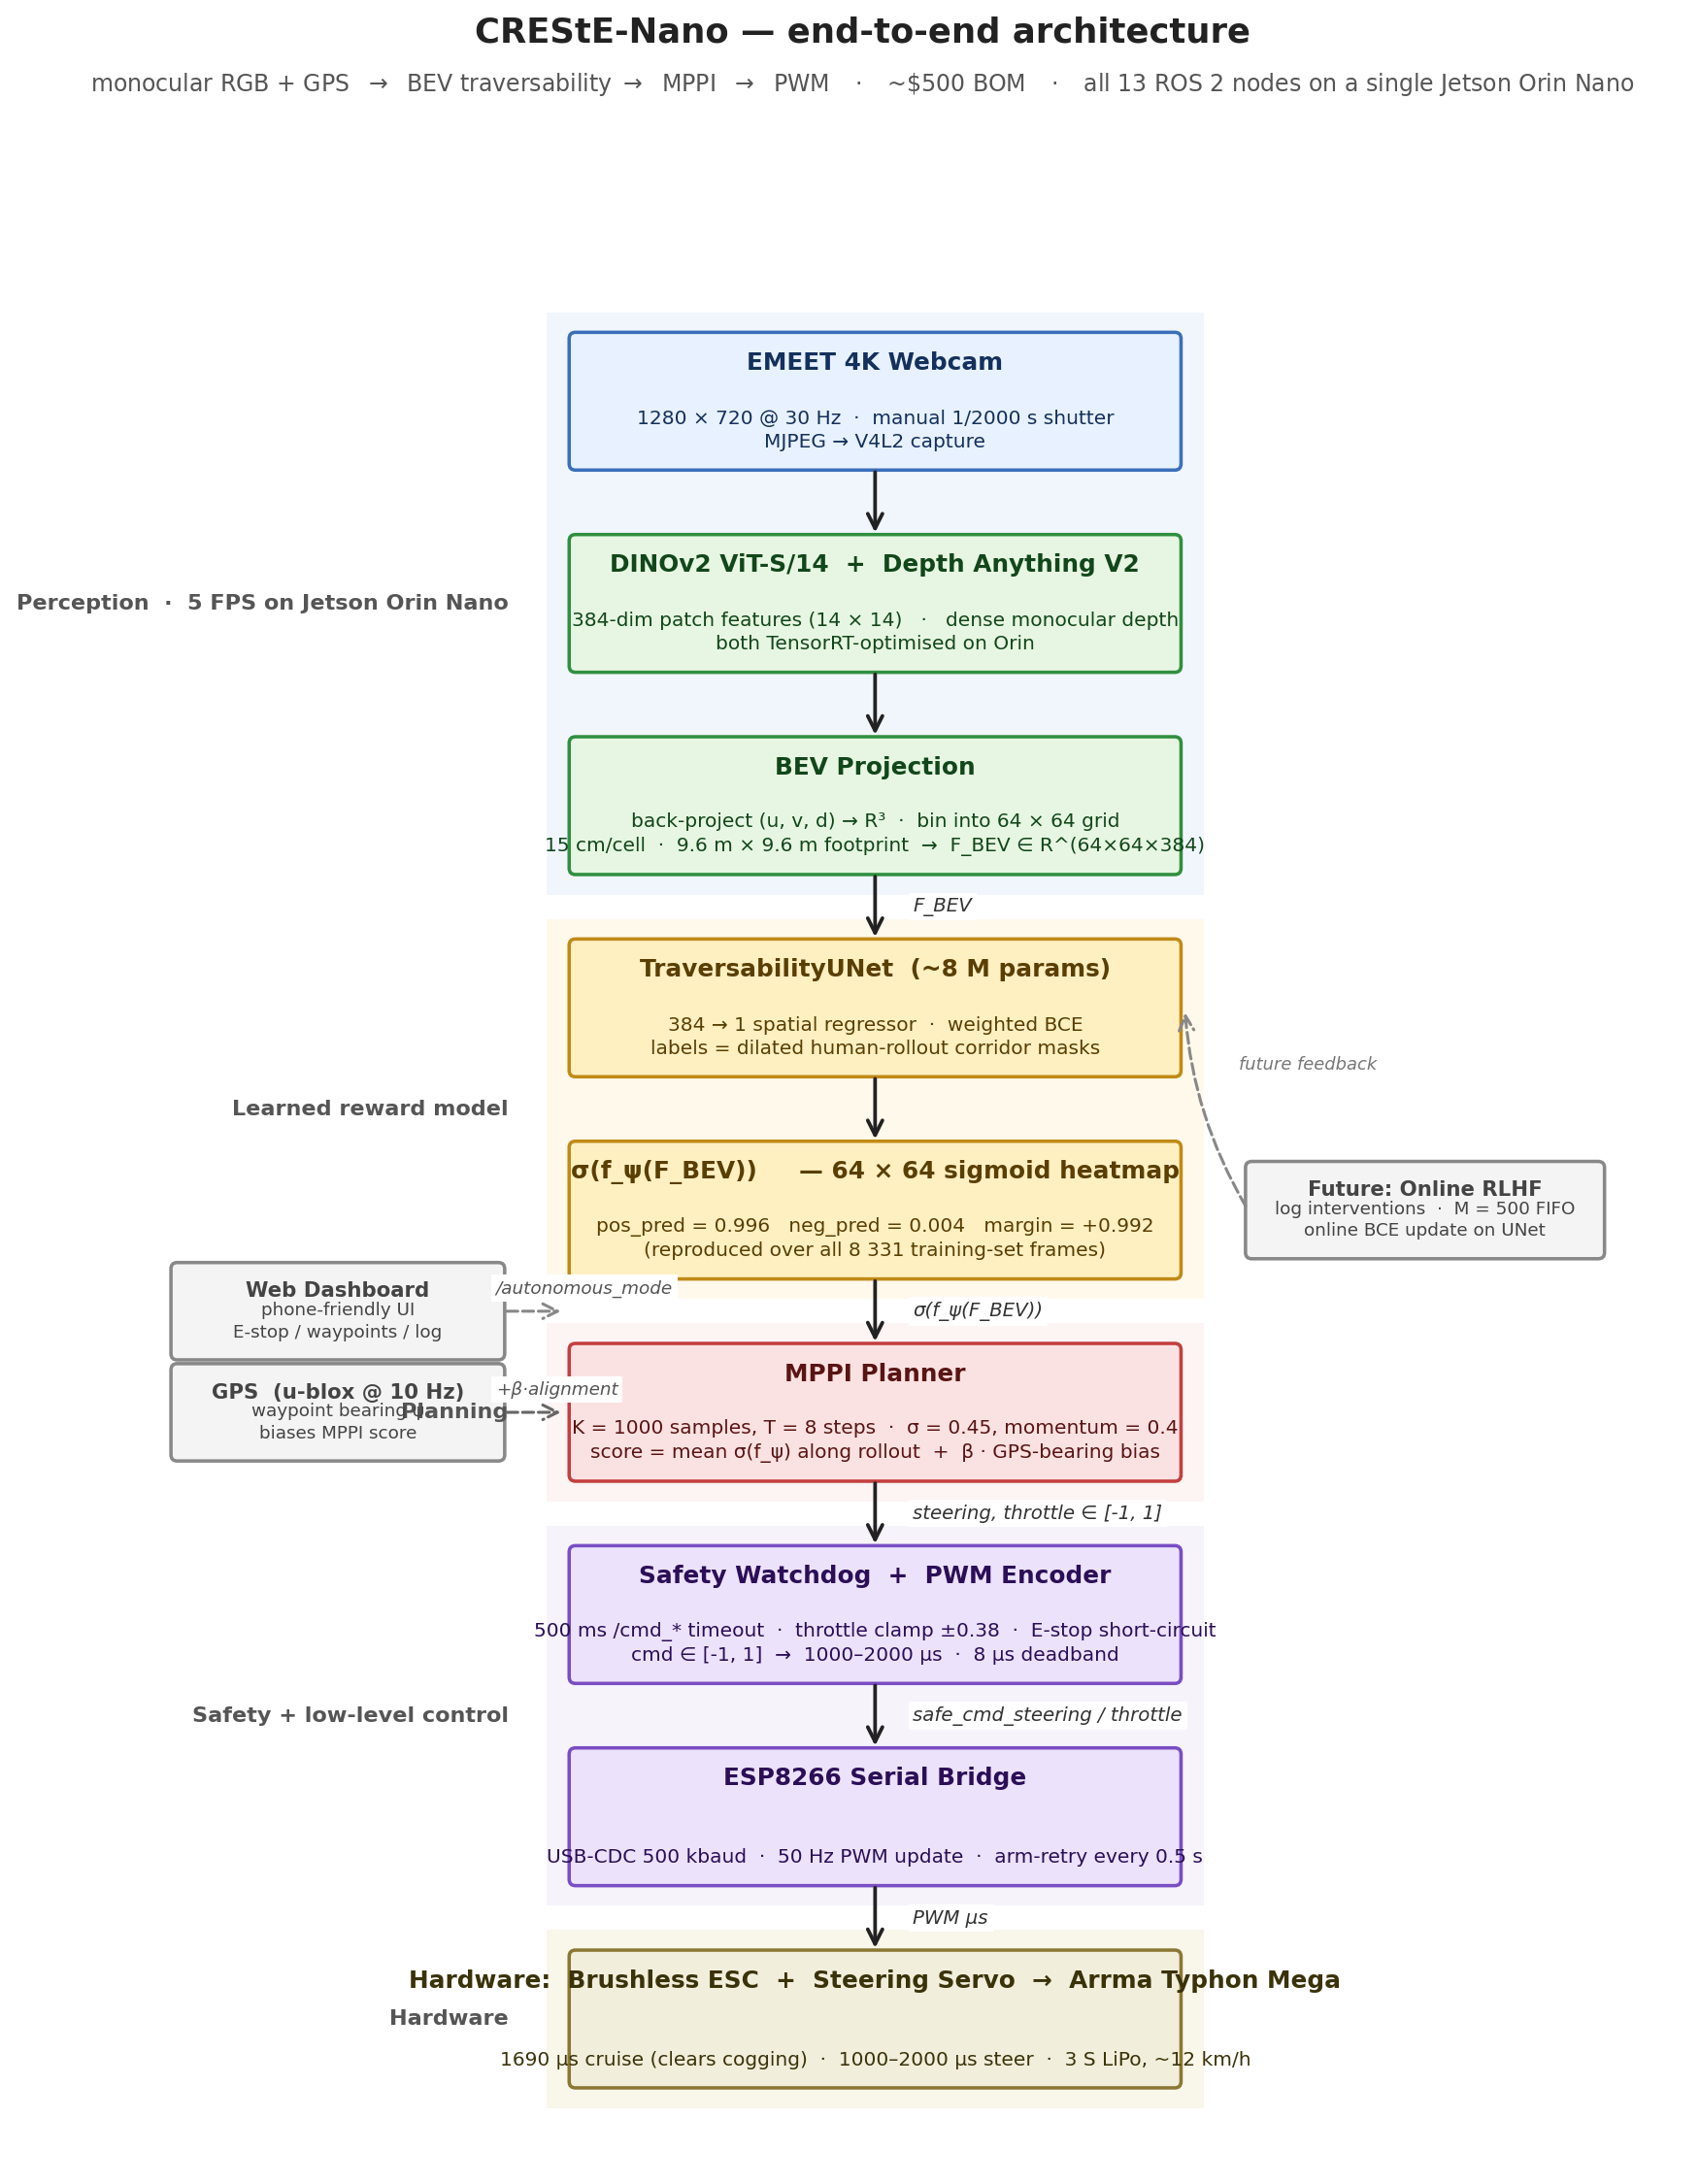
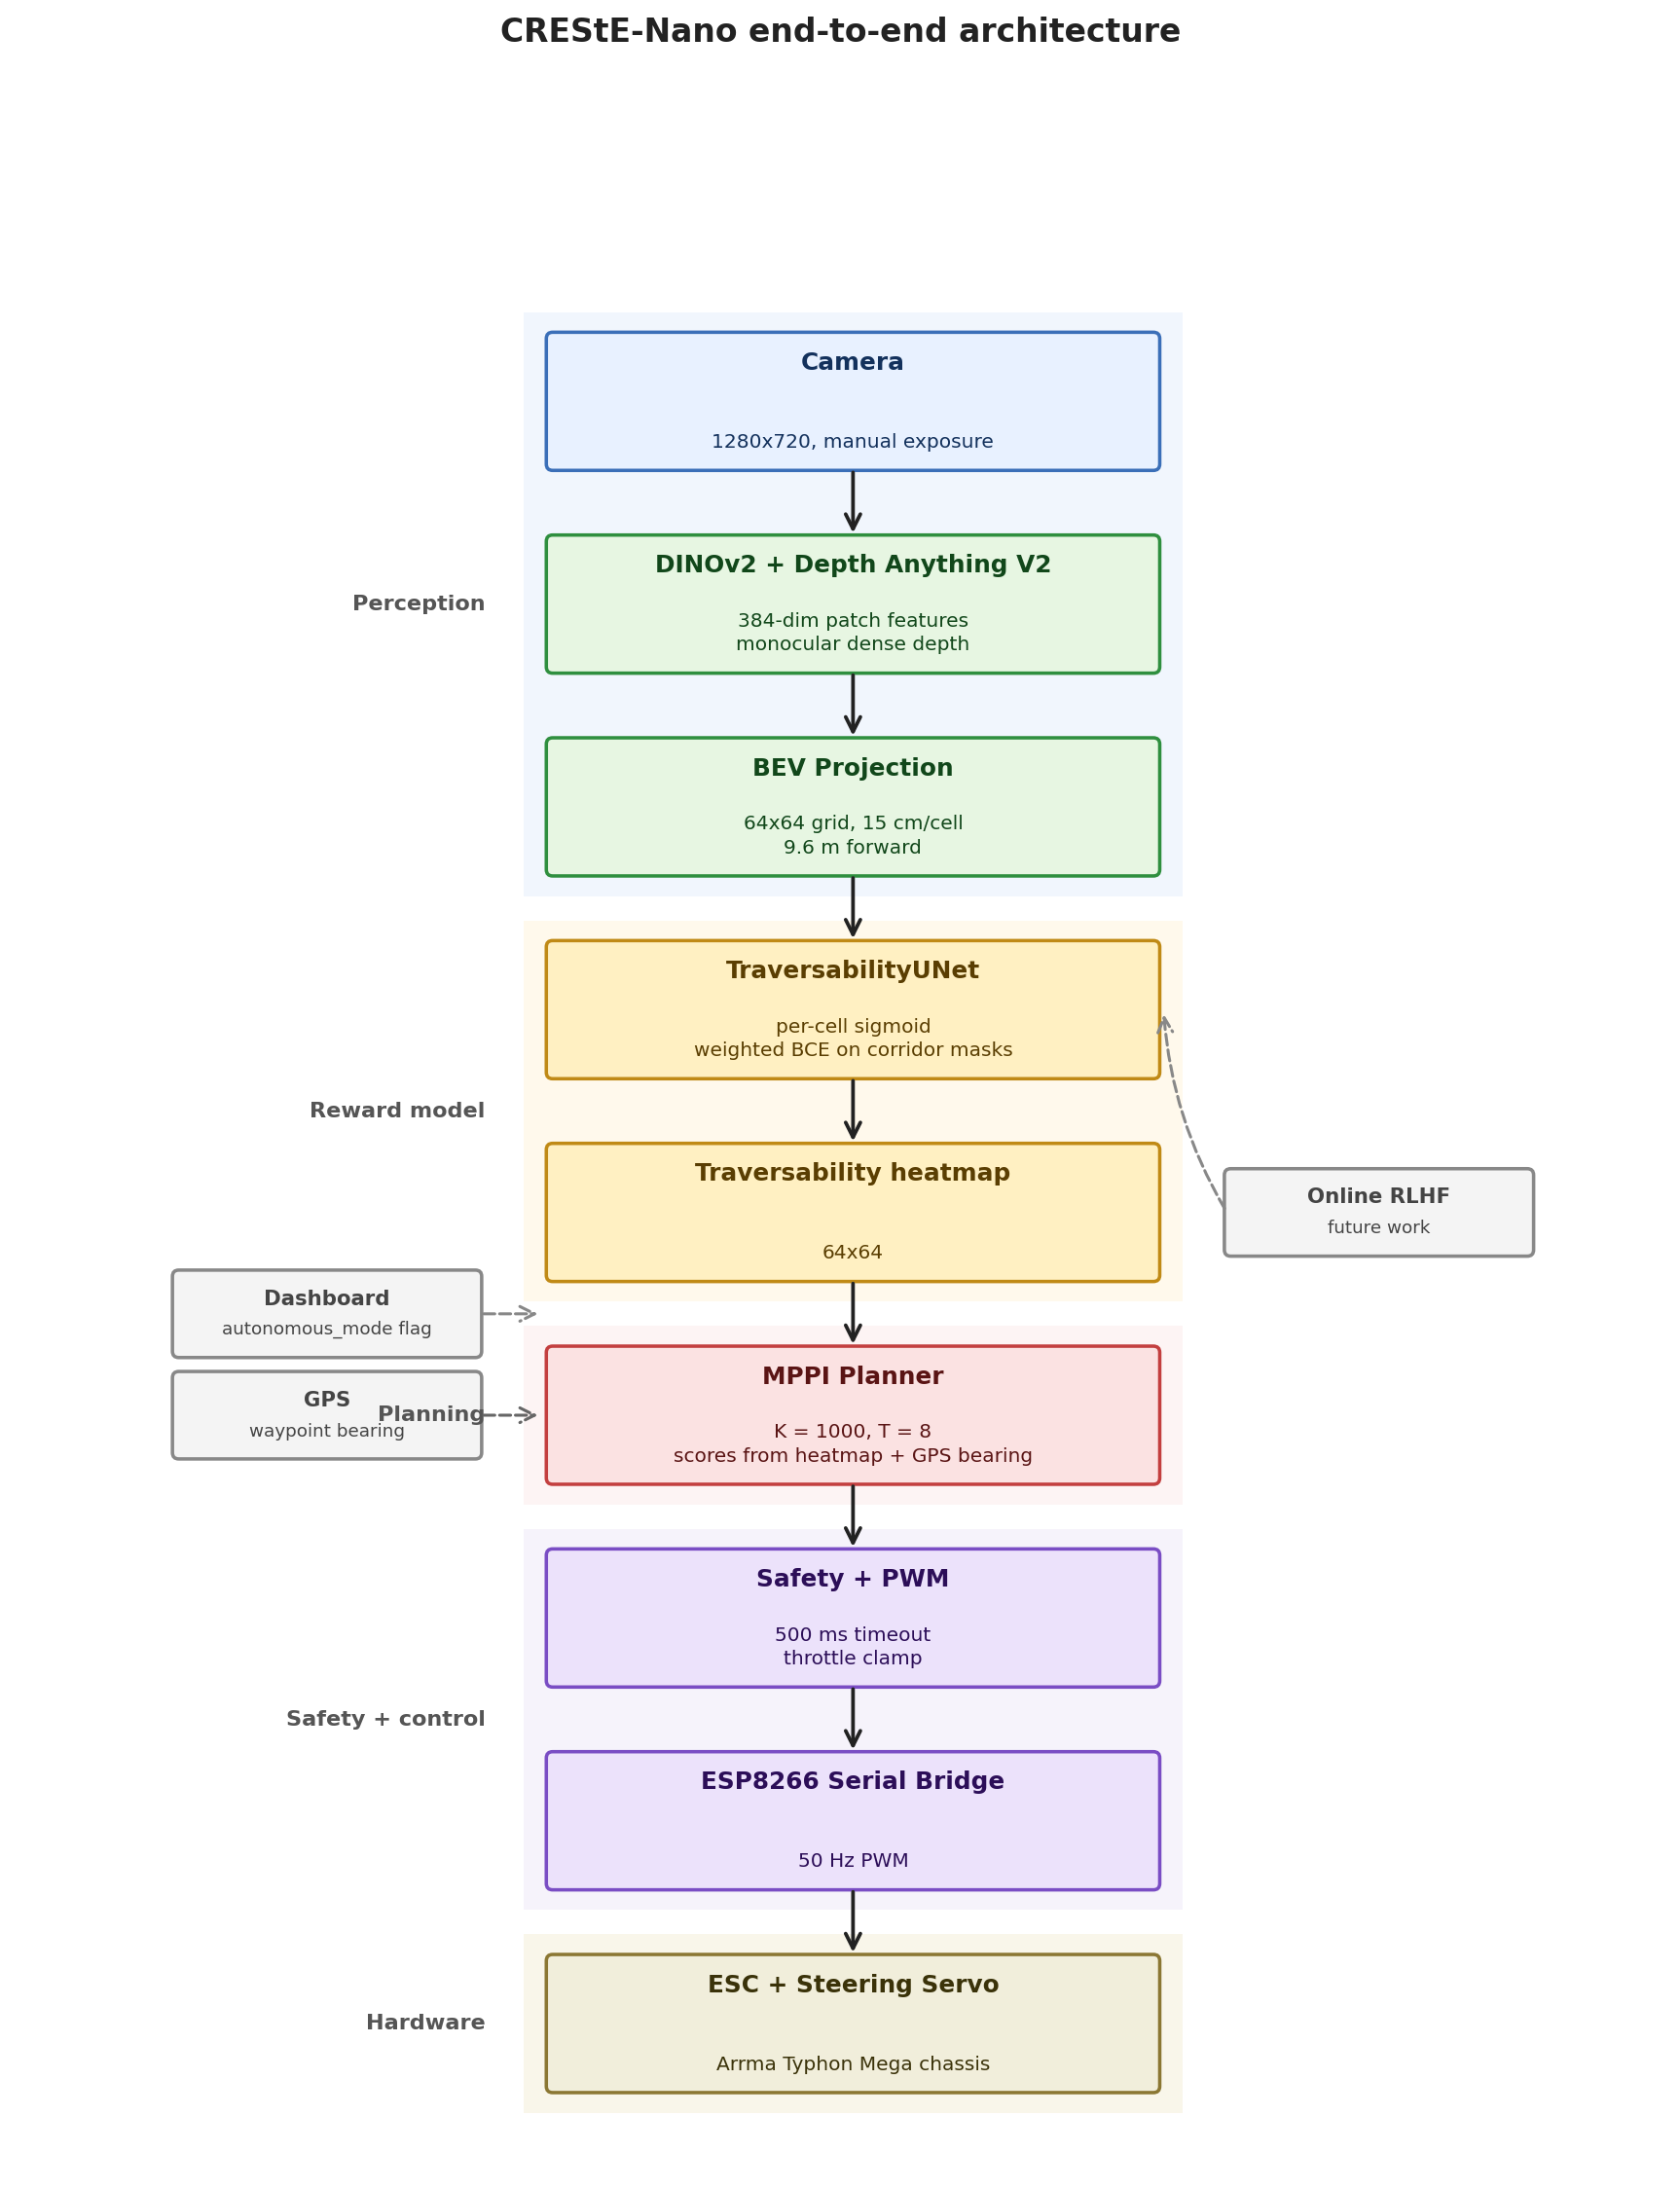
chore: drop emoji from README + simplify architecture diagram
- README: removed the camera emoji from the Demo heading and the inline play-button glyph

- Architecture diagram: cut the dense subtitles (no more middle-dot feature dumps in every block), dropped the inline arrow labels, and trimmed the subtitle banner under the title. Blocks now have short labels with at most a one-line description.

- Rebuilt paper/main.pdf so the figure inside the LaTeX writeup also picks up the simpler diagram.

diff --git a/make_arch_diagram.py b/make_arch_diagram.py
@@ -81,30 +81,24 @@ def build_figure():
     # Lane bands are visual grouping only. Compute block y-positions first.
     blocks = [
         # (kind, title, subtitle)
-        ('sensor',     'EMEET 4K Webcam',
-         '1280 × 720 @ 30 Hz  ·  manual 1/2000 s shutter\nMJPEG → V4L2 capture'),
-        ('perception', 'DINOv2 ViT-S/14  +  Depth Anything V2',
-         '384-dim patch features (14 × 14)   ·   dense monocular depth\n'
-         'both TensorRT-optimised on Orin'),
+        ('sensor',     'Camera',
+         '1280x720, manual exposure'),
+        ('perception', 'DINOv2 + Depth Anything V2',
+         '384-dim patch features\nmonocular dense depth'),
         ('perception', 'BEV Projection',
-         'back-project (u, v, d) → R³  ·  bin into 64 × 64 grid\n'
-         '15 cm/cell  ·  9.6 m × 9.6 m footprint  →  F_BEV ∈ R^(64×64×384)'),
-        ('learning',   'TraversabilityUNet  (~8 M params)',
-         '384 → 1 spatial regressor  ·  weighted BCE\n'
-         'labels = dilated human-rollout corridor masks'),
-        ('learning',   'σ(f_ψ(F_BEV))     — 64 × 64 sigmoid heatmap',
-         'pos_pred = 0.996   neg_pred = 0.004   margin = +0.992\n'
-         '(reproduced over all 8 331 training-set frames)'),
+         '64x64 grid, 15 cm/cell\n9.6 m forward'),
+        ('learning',   'TraversabilityUNet',
+         'per-cell sigmoid\nweighted BCE on corridor masks'),
+        ('learning',   'Traversability heatmap',
+         '64x64'),
         ('planning',   'MPPI Planner',
-         'K = 1000 samples, T = 8 steps  ·  σ = 0.45, momentum = 0.4\n'
-         'score = mean σ(f_ψ) along rollout  +  β · GPS-bearing bias'),
-        ('control',    'Safety Watchdog  +  PWM Encoder',
-         '500 ms /cmd_* timeout  ·  throttle clamp ±0.38  ·  E-stop short-circuit\n'
-         'cmd ∈ [-1, 1]  →  1000–2000 µs  ·  8 µs deadband'),
+         'K = 1000, T = 8\nscores from heatmap + GPS bearing'),
+        ('control',    'Safety + PWM',
+         '500 ms timeout\nthrottle clamp'),
         ('control',    'ESP8266 Serial Bridge',
-         'USB-CDC 500 kbaud  ·  50 Hz PWM update  ·  arm-retry every 0.5 s'),
-        ('actuation',  'Hardware:  Brushless ESC  +  Steering Servo  →  Arrma Typhon Mega',
-         '1690 µs cruise (clears cogging)  ·  1000–2000 µs steer  ·  3 S LiPo, ~12 km/h'),
+         '50 Hz PWM'),
+        ('actuation',  'ESC + Steering Servo',
+         'Arrma Typhon Mega chassis'),
     ]
 
     # Place top-to-bottom, compute y for each
@@ -118,11 +112,11 @@ def build_figure():
     # Lane bands (group blocks by colour)
     # Indices into the blocks list:
     lane_specs = [
-        (range(0, 3), 'Perception  ·  5 FPS on Jetson Orin Nano',         '#b9d2f7'),
-        (range(3, 5), 'Learned reward model',                             '#ffe3a3'),
-        (range(5, 6), 'Planning',                                         '#f7c9c9'),
-        (range(6, 8), 'Safety + low-level control',                       '#d4c4ee'),
-        (range(8, 9), 'Hardware',                                         '#e2d39a'),
+        (range(0, 3), 'Perception',                  '#b9d2f7'),
+        (range(3, 5), 'Reward model',                 '#ffe3a3'),
+        (range(5, 6), 'Planning',                     '#f7c9c9'),
+        (range(6, 8), 'Safety + control',             '#d4c4ee'),
+        (range(8, 9), 'Hardware',                     '#e2d39a'),
     ]
     for idxs, label, color in lane_specs:
         idxs = list(idxs)
@@ -135,69 +129,43 @@ def build_figure():
     for (kind, title, subtitle), y in zip(blocks, ys):
         block(ax, CX, y, BW, BH, title, subtitle, kind)
 
-    # Vertical arrows between consecutive blocks
-    DATA_LABELS = {
-        (0, 1): None,                     # camera → perception
-        (1, 2): None,
-        (2, 3): 'F_BEV',
-        (3, 4): None,                     # UNet → σ heatmap (same block in code)
-        (4, 5): 'σ(f_ψ(F_BEV))',
-        (5, 6): 'steering, throttle ∈ [-1, 1]',
-        (6, 7): 'safe_cmd_steering / throttle',
-        (7, 8): 'PWM µs',
-    }
-    for (i, j), lab in DATA_LABELS.items():
+    # Plain vertical arrows between consecutive blocks (no inline labels)
+    for i in range(len(blocks) - 1):
         y0 = ys[i]
-        y1 = ys[j] + BH
+        y1 = ys[i + 1] + BH
         x = CX + BW / 2
-        arrow(ax, x, y0, x, y1, label=lab, label_dx=0.30, label_dy=0.0,
-              label_fontsize=8.4)
+        arrow(ax, x, y0, x, y1)
 
     # Sidecar inputs (left of the column)
-    GAP_FROM_COL = 0.55   # gap between sidecar block and central column
+    GAP_FROM_COL = 0.55
 
-    def side_in(y_center, title, subtitle, label, color='#666', dashed=True):
-        sw, sh = 2.6, BH - 0.32
+    def side_in(y_center, title, subtitle, color='#666', dashed=True):
+        sw, sh = 2.4, BH - 0.40
         sx = CX - GAP_FROM_COL - sw
         sy = y_center - sh / 2
         block(ax, sx, sy, sw, sh, title, subtitle, 'side',
               fontsize_title=9, fontsize_sub=7.8)
-        # Arrow stops just before column edge (no head intrusion)
         arrow(ax, sx + sw, y_center, CX - 0.05, y_center,
-              dashed=dashed, color=color, lw=1.3,
-              label=label, label_dx=-(GAP_FROM_COL - 0.05) / 2 - 0.05,
-              label_dy=0.18, label_fontsize=7.8, label_color='#555')
+              dashed=dashed, color=color, lw=1.3)
 
-    # GPS bearing feeds MPPI (bias on score)
-    side_in(ys[5] + BH / 2, 'GPS  (u-blox @ 10 Hz)',
-            'waypoint bearing ψ\nbiases MPPI score', '+β·alignment')
-    # Dashboard feeds the autonomy flag (goes to MPPI mode_cb)
-    side_in(ys[5] + BH + GAP / 2, 'Web Dashboard',
-            'phone-friendly UI\nE-stop / waypoints / log', '/autonomous_mode',
+    side_in(ys[5] + BH / 2, 'GPS', 'waypoint bearing')
+    side_in(ys[5] + BH + GAP / 2, 'Dashboard', 'autonomous_mode flag',
             color='#888')
 
-    # Future RLHF (right side, dashed)
-    fb_w, fb_h = 2.8, BH - 0.32
+    # Future RLHF (right side, dashed, deliberately faint)
+    fb_w, fb_h = 2.4, BH - 0.40
     fb_x = CX + BW + GAP_FROM_COL
     fb_y = ys[4] + (BH - fb_h) / 2
     block(ax, fb_x, fb_y, fb_w, fb_h,
-          'Future: Online RLHF',
-          'log interventions  ·  M = 500 FIFO\nonline BCE update on UNet',
+          'Online RLHF',
+          'future work',
           'side', fontsize_title=9, fontsize_sub=7.8)
     arrow(ax, fb_x, fb_y + fb_h / 2, CX + BW + 0.05, ys[3] + BH / 2,
-          dashed=True, color='#888', rad=-0.12, lw=1.3,
-          label='future feedback', label_dx=0.18, label_dy=0.35,
-          label_fontsize=7.6, label_color='#777')
+          dashed=True, color='#888', rad=-0.12, lw=1.3)
 
     # Title
-    fig.text(0.50, 0.965, 'CREStE-Nano — end-to-end architecture',
-             ha='center', fontsize=15, fontweight='bold', color='#222')
-    fig.text(0.50, 0.943,
-             r'monocular RGB + GPS  $\rightarrow$  BEV traversability '
-             r'$\rightarrow$  MPPI  $\rightarrow$  PWM  '
-             r'$\;\cdot\;$  ~\$500 BOM  '
-             r'$\;\cdot\;$  all 13 ROS 2 nodes on a single Jetson Orin Nano',
-             ha='center', fontsize=10, color='#555')
+    fig.text(0.50, 0.965, 'CREStE-Nano end-to-end architecture',
+             ha='center', fontsize=14, fontweight='bold', color='#222')
 
     fig.tight_layout(rect=[0, 0, 1, 0.93])
     return fig

diff --git a/README.md b/README.md
@@ -7,9 +7,9 @@ The robot learns what terrain looks like from ~20 minutes of human driving, then
 
 ---
 
-## 🎥 Demo
+## Demo
 
-**▶ [Watch the demo video (demo.mp4)](demo.mp4)** &nbsp;·&nbsp; the full **8,331 training frames** replayed at 30 Hz (4.63 min). Real recorded camera from Sauls Ranch, Round Rock TX, run through the trained perception + planning pipeline frame-by-frame.
+**[Watch the demo video (demo.mp4)](demo.mp4)** — the full 8,331 training frames replayed at 30 Hz (4.63 min). Real recorded camera from Sauls Ranch, Round Rock TX, run through the trained perception + planning pipeline frame-by-frame.
 
 <p align="center">
   <video src="demo.mp4" controls width="720" muted autoplay loop>